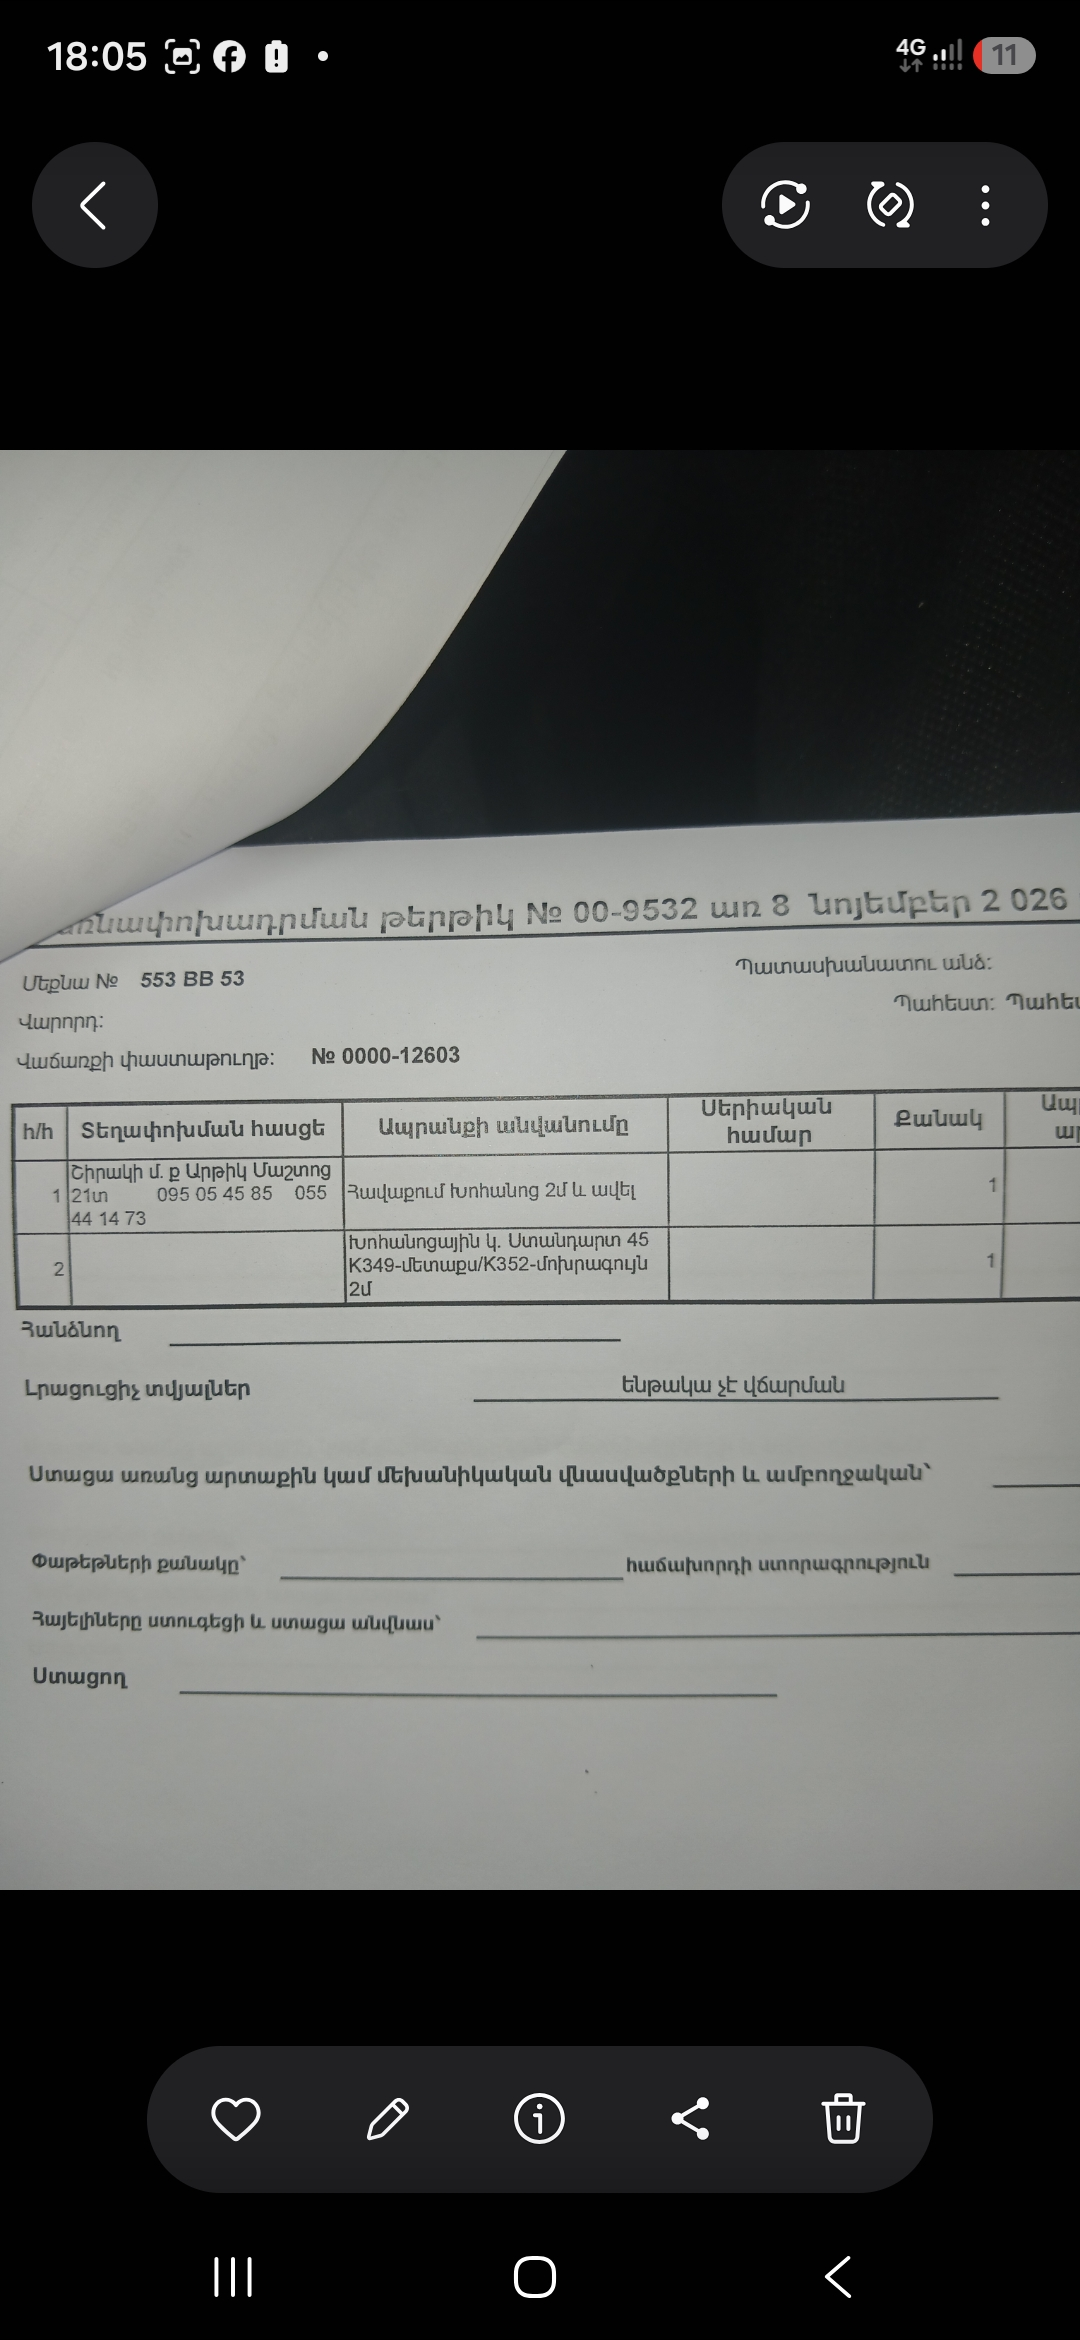
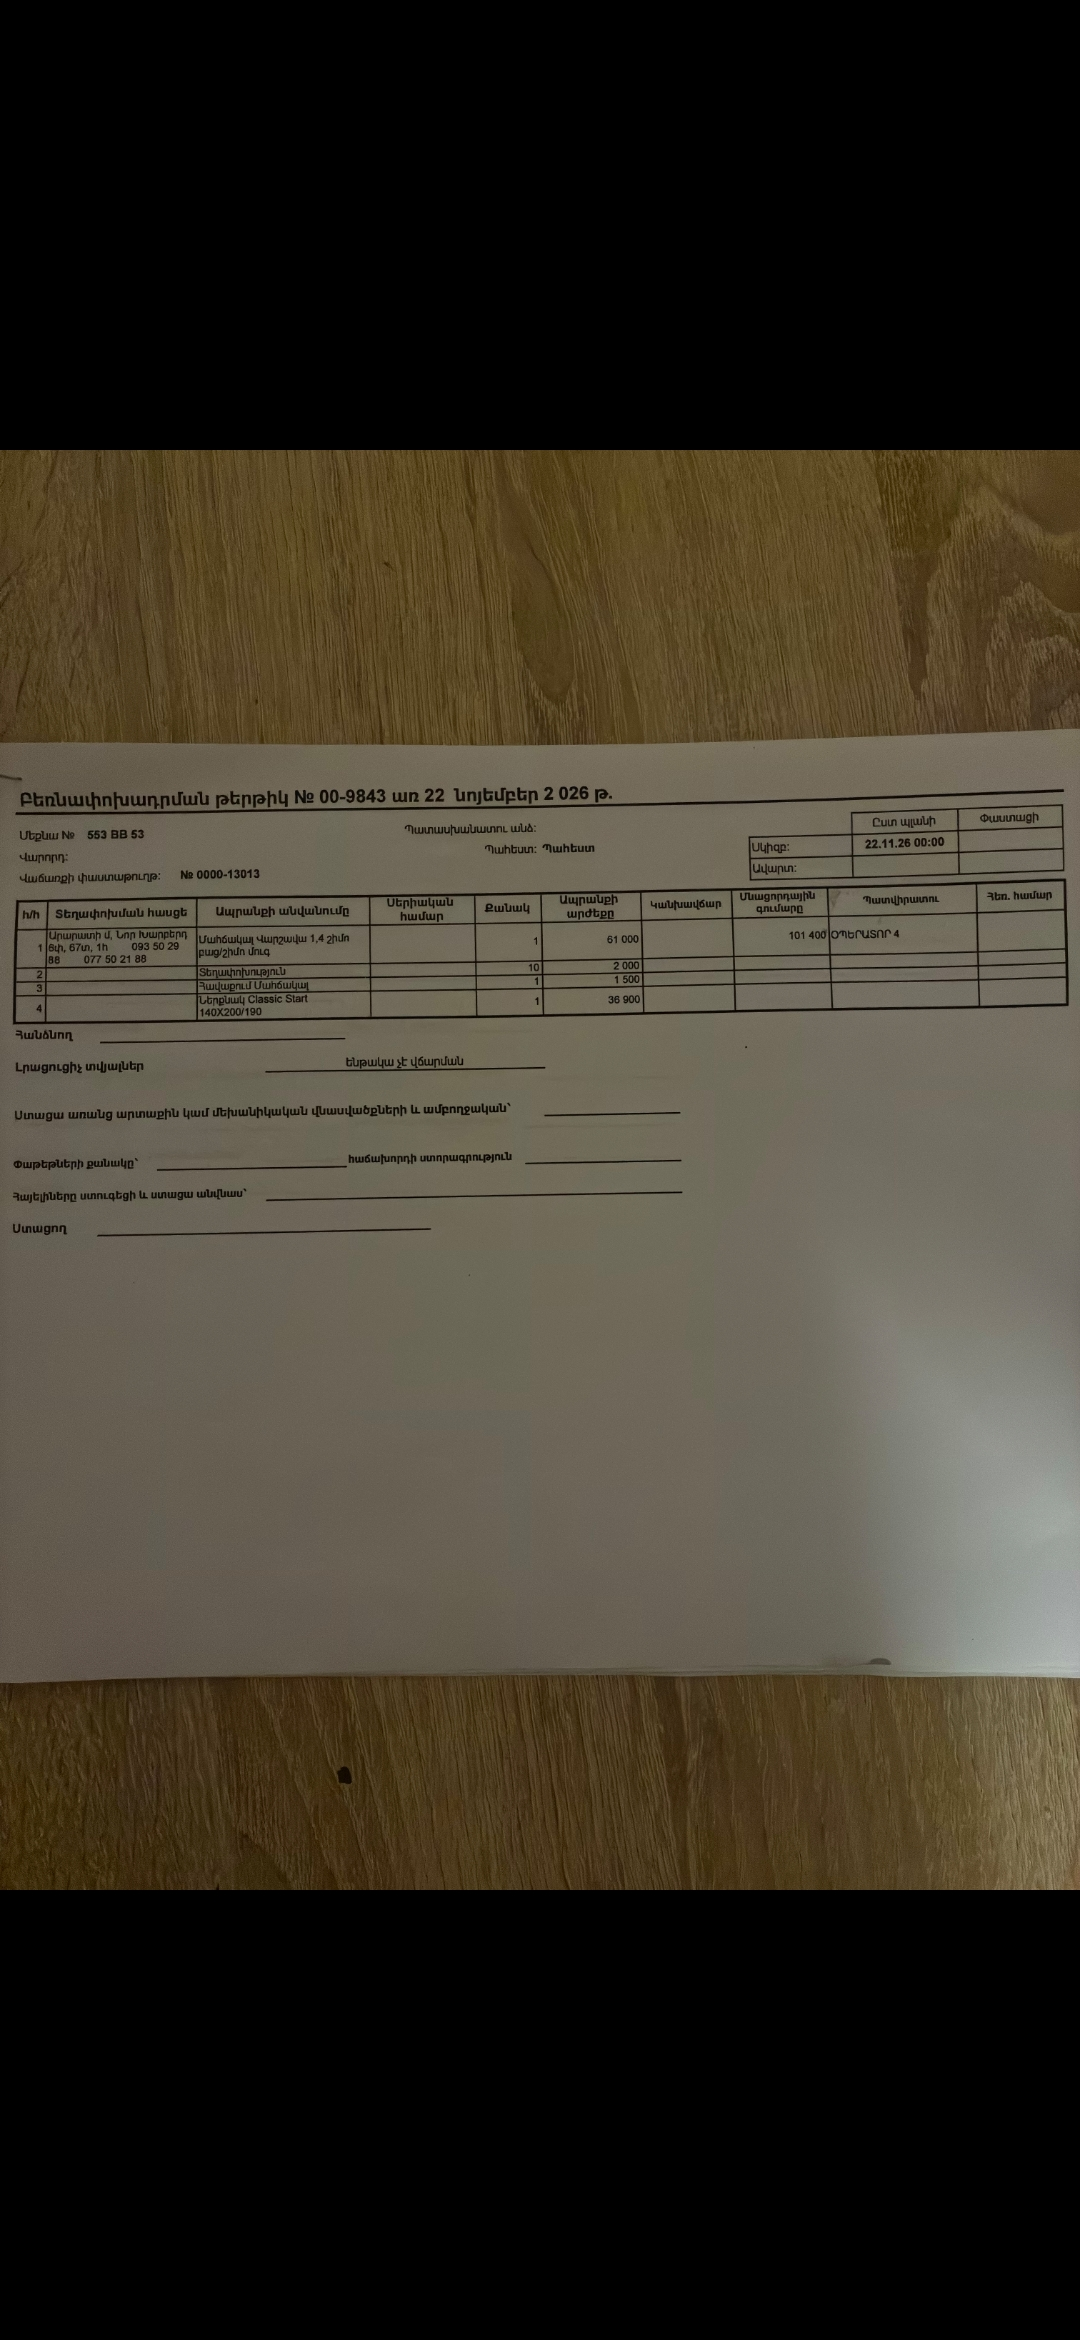
Update OCR onboarding guide: clean cropped invoice with green frame guideline, remove in-camera overlays

diff --git a/ocr.js b/ocr.js
@@ -1195,12 +1195,8 @@ async function askGemini(b64){
     ov = document.createElement("div"); ov.id = "ocrLiveCam";
     ov.innerHTML = '<video id="ocrLiveVid" autoplay playsinline muted></video>'
       + '<div id="olcFocusRing" style="position:fixed;width:64px;height:64px;border:2px solid #fde047;border-radius:50%;pointer-events:none;opacity:0;transform:translate(-50%,-50%) scale(1.2);transition:opacity .2s,transform .2s;z-index:3"></div>'
-      + '<div class="olc-top"><button type="button" class="olc-btn" id="olcSys">📷 Системная</button><button type="button" class="olc-btn" id="olcHelp" style="border-color:#38bdf8!important;color:#7dd3fc!important">💡 Пример</button><button type="button" class="olc-btn" id="olcClose" aria-label="Закрыть">✕</button></div>'
-      + '<div class="olc-frame" id="olcFrame">'
-      + '  <div class="olc-guide-top"><span>▲ ВЕРХ</span><span>№ «Վաճառքի փաստաթուղթ»</span></div>'
-      + '  <div class="olc-guide-mid">📦 Таблица товаров и количество</div>'
-      + '  <div class="olc-guide-bot">▼ Поместите весь лист накладной в рамку</div>'
-      + '</div>'
+      + '<div class="olc-top"><button type="button" class="olc-btn" id="olcSys">📷 Системная</button><span>Коснитесь текста для фокуса</span><button type="button" class="olc-btn" id="olcClose" aria-label="Закрыть">✕</button></div>'
+      + '<div class="olc-frame" id="olcFrame"></div>'
       + '<div class="olc-bot"><button type="button" class="olc-btn" id="olcTorch">🔦 Свет</button><button type="button" class="olc-shot" id="olcShot" aria-label="Снять"></button><button type="button" class="olc-btn" id="olcLens"></button></div>';
     document.body.appendChild(ov);
     const vid = g("ocrLiveVid");
@@ -1413,7 +1409,6 @@ async function askGemini(b64){
     };
 
     g("olcClose").onclick = stopCam;
-    g("olcHelp").onclick = () => showOcrInstructionModal();
     g("olcSys").onclick = () => { stopCam(); if (fallbackInput) fallbackInput.click(); };
     g("olcShot").onclick = async () => {
       const _sb0 = g('olcShot'); if (_sb0) _sb0.disabled = true;
@@ -1504,12 +1499,18 @@ const _fastShot = () => {
     hm = document.createElement('div'); hm.id = 'ocrHelpMdl'; hm.className = 'cm open';
     hm.innerHTML = '<div class="cm-b ocr-help-box">'
       + '<div class="ocr-help-hd"><b>📄 Как фотографировать</b><button type="button" class="pm-x" id="ocrHelpX">✕</button></div>'
-      + '<img class="ocr-help-img" src="sample-doc.jpg" alt="Образец накладной">'
+      + '<div class="ocr-sample-wrap">'
+      + '  <div class="ocr-sample-cropper">'
+      + '    <img class="ocr-sample-img" src="sample-doc.jpg" alt="Образец накладной">'
+      + '    <div class="ocr-sample-rect"></div>'
+      + '    <div class="ocr-sample-badge">🟢 Фотографируйте весь лист ровно сверху</div>'
+      + '  </div>'
+      + '</div>'
       + '<div class="ocr-help-rules">'
-      + '  <div class="ocr-help-r"><span>1⃣</span><div><b>Держите телефон ровно сверху</b><br>Накладная должна полностью помещаться в кадр без сильного наклона.</div></div>'
-      + '  <div class="ocr-help-r"><span>2⃣</span><div><b>Номер «Վաճառքի փաստաթուղթ»</b><br>Убедитесь, что строка с номером накладной видна чётко и не обрезана.</div></div>'
-      + '  <div class="ocr-help-r"><span>3⃣</span><div><b>Таблица товаров и количество</b><br>Не закрывайте пальцами колонки «Ապրանքի անվանումը» и «Քանակ».</div></div>'
-      + '  <div class="ocr-help-r"><span>4⃣</span><div><b>Хороший свет / Вспышка</b><br>Если в кузове или подъезде темно, включите фонарик кнопкой «🔦 Свет».</div></div>'
+      + '  <div class="ocr-help-r"><span>1⃣</span><div><b>Держите телефон ровно сверху</b><br>Лист накладной должен полностью помещаться в кадр.</div></div>'
+      + '  <div class="ocr-help-r"><span>2⃣</span><div><b>Номер «Վաճառքի փաստաթուղթ»</b><br>Убедитесь, что строка номера накладной видна и не обрезана.</div></div>'
+      + '  <div class="ocr-help-r"><span>3⃣</span><div><b>Таблица товаров и количество</b><br>Не закрывайте пальцами колонки товаров и штук.</div></div>'
+      + '  <div class="ocr-help-r"><span>4⃣</span><div><b>Хороший свет / Вспышка</b><br>Если темно, обязательно включите фонарик кнопкой «🔦 Свет».</div></div>'
       + '</div>'
       + '<button type="button" class="ocr-help-btn" id="ocrHelpOk">Понятно, сканировать</button>'
       + '</div>';

diff --git a/style.css b/style.css
@@ -1114,14 +1114,15 @@ body:has(.cm.open)>*:not(.cm):not(#toast):not(#busy){pointer-events:none!importa
 .olc-btn{width:auto!important;min-width:44px!important;min-height:44px!important;height:44px!important;margin:0!important;padding:0 13px!important;border-radius:14px!important;background:rgba(15,23,34,.8)!important;border:1px solid rgba(255,255,255,.24)!important;color:#fff!important;font-size:13px!important;font-weight:700!important;display:inline-flex!important;align-items:center;justify-content:center;gap:5px;white-space:nowrap;flex-shrink:0;backdrop-filter:blur(8px);box-shadow:none!important}
 .olc-btn.on{border-color:#fde047!important;color:#fde047!important;background:rgba(250,204,21,.22)!important}
 .olc-btn:disabled{opacity:.5}
-.olc-frame{position:relative;z-index:2;margin:auto 22px;height:54vh;border:2px dashed rgba(52,211,153,.82);border-radius:20px;box-shadow:0 0 0 9999px rgba(0,0,0,.34);pointer-events:none;display:flex;flex-direction:column;justify-content:space-between;padding:12px 14px;box-sizing:border-box}
-.olc-guide-top{display:flex;align-items:center;justify-content:space-between;padding:6px 10px;border-radius:10px;background:rgba(16,185,129,.22);border:1px solid rgba(52,211,153,.55);color:#a7f3d0;font-size:11.5px;font-weight:700}
-.olc-guide-mid{display:flex;align-items:center;justify-content:center;gap:6px;padding:8px 12px;border-radius:12px;background:rgba(56,189,248,.18);border:1px solid rgba(56,189,248,.5);color:#bae6fd;font-size:12px;font-weight:700;text-align:center}
-.olc-guide-bot{display:flex;align-items:center;justify-content:center;padding:5px 8px;border-radius:9px;background:rgba(0,0,0,.45);color:#94a3b8;font-size:11px}
+.olc-frame{position:relative;z-index:2;margin:auto 22px;height:54vh;border:2px dashed rgba(52,211,153,.82);border-radius:20px;box-shadow:0 0 0 9999px rgba(0,0,0,.34);pointer-events:none}
 .ocr-help-box{max-width:390px!important;padding:20px 18px!important;border-radius:26px!important;background:#0d1522!important;border:1px solid rgba(56,189,248,.3)!important;box-shadow:0 24px 60px rgba(0,0,0,.9)!important}
 .ocr-help-hd{display:flex;align-items:center;justify-content:space-between;margin-bottom:14px}
 .ocr-help-hd b{font-size:16px;color:#f8fafc;display:flex;align-items:center;gap:8px}
-.ocr-help-img{width:100%;max-height:220px;object-fit:contain;border-radius:14px;border:1px solid rgba(255,255,255,.12);background:#000;margin-bottom:12px}
+.ocr-sample-wrap{width:100%;height:230px;position:relative;overflow:hidden;border-radius:16px;border:1px solid rgba(255,255,255,.14);background:#000;margin-bottom:14px}
+.ocr-sample-cropper{width:100%;height:100%;position:relative;overflow:hidden}
+.ocr-sample-img{width:100%;height:100%;object-fit:cover;object-position:50% 55%;filter:contrast(1.05)}
+.ocr-sample-rect{position:absolute;inset:12px;border:3px solid #10b981;border-radius:12px;box-shadow:0 0 0 9999px rgba(0,0,0,.45),inset 0 0 16px rgba(16,185,129,.4);pointer-events:none}
+.ocr-sample-badge{position:absolute;bottom:20px;left:50%;transform:translateX(-50%);background:rgba(5,46,22,.88);border:1px solid #34d399;color:#a7f3d0;font-size:11.5px;font-weight:800;padding:5px 12px;border-radius:99px;white-space:nowrap;box-shadow:0 4px 14px rgba(0,0,0,.6);pointer-events:none}
 .ocr-help-rules{display:flex;flex-direction:column;gap:8px;text-align:left;margin-bottom:16px}
 .ocr-help-r{display:flex;align-items:flex-start;gap:10px;padding:8px 10px;border-radius:12px;background:rgba(255,255,255,.04);border:1px solid rgba(255,255,255,.07)}
 .ocr-help-r span{font-size:18px;line-height:1.1;flex-shrink:0}

diff --git a/index.html b/index.html
@@ -19,18 +19,18 @@
 <div id="cm" class="cm"><div class="cm-b"><div class="cm-i" id="cmI">🗑</div><div class="cm-t" id="cmT"></div><div class="cm-r"><button id="cmNo">Отмена</button><button id="cmOk" class="cm-ok">OK</button></div></div></div>
 
 
-<script src="storage.js?v=20261122183123"></script>
-<script src="geo.js?v=20261122183123"></script>
-<script src="zones.js?v=20261122183123"></script>
-<script src="bonus-engine.js?v=20261122183123"></script>
-<script src="table-viewer.js?v=20261122183123"></script>
-<script src="app.js?v=20261122183123"></script>
-<script src="yandex.js?v=20261122183123"></script>
-<script src="ocr.js?v=20261122183123"></script>
-<script src="ui.js?v=20261122183123"></script>
-<script src="map.js?v=20261122183123"></script>
-<script src="bonus.js?v=20261122183123"></script>
-<script src="i18n.js?v=20261122183123"></script>
-<script src="online.js?v=20261122183123"></script>
-<script src="auth.js?v=20261122183123"></script>
+<script src="storage.js?v=20261122184751"></script>
+<script src="geo.js?v=20261122184751"></script>
+<script src="zones.js?v=20261122184751"></script>
+<script src="bonus-engine.js?v=20261122184751"></script>
+<script src="table-viewer.js?v=20261122184751"></script>
+<script src="app.js?v=20261122184751"></script>
+<script src="yandex.js?v=20261122184751"></script>
+<script src="ocr.js?v=20261122184751"></script>
+<script src="ui.js?v=20261122184751"></script>
+<script src="map.js?v=20261122184751"></script>
+<script src="bonus.js?v=20261122184751"></script>
+<script src="i18n.js?v=20261122184751"></script>
+<script src="online.js?v=20261122184751"></script>
+<script src="auth.js?v=20261122184751"></script>
 </body></html>

diff --git a/admin.html b/admin.html
@@ -470,13 +470,13 @@ body:has(.ov.show),html:has(.ov.show){overflow:hidden!important;overscroll-behav
   </div>
  </div>
 </div>
-<script src="storage.js?v=20261122183123"></script>
-<script src="geo.js?v=20261122183123"></script>
-<script src="zones.js?v=20261122183123"></script>
-<script src="bonus-engine.js?v=20261122183123"></script>
-<script src="table-viewer.js?v=20261122183123"></script>
-<script src="yandex.js?v=20261122183123"></script>
-<script src="admin.js?v=20261122183123"></script>
+<script src="storage.js?v=20261122184751"></script>
+<script src="geo.js?v=20261122184751"></script>
+<script src="zones.js?v=20261122184751"></script>
+<script src="bonus-engine.js?v=20261122184751"></script>
+<script src="table-viewer.js?v=20261122184751"></script>
+<script src="yandex.js?v=20261122184751"></script>
+<script src="admin.js?v=20261122184751"></script>
 <script>
 ['lgEm','lgPw'].forEach(id=>{
  const el=document.getElementById(id);

diff --git a/sw.js b/sw.js
@@ -1,4 +1,4 @@
-const CACHE_NAME = 'eurobaza-v20261122183123';
+const CACHE_NAME = 'eurobaza-v20261122184751';
 const ASSETS = [
   './',
   'index.html',
